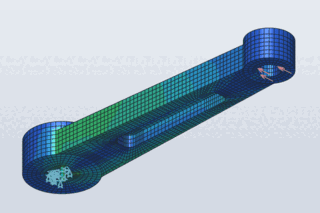
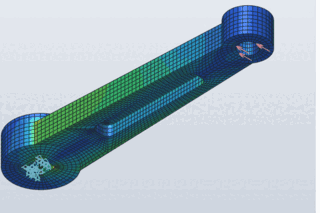
Docs: the crank's one-datum workflow, its gallery images and the Decompose status
examples.md and mcp.md tell the one-datum workflow and its numbers; the
crank gallery captures and Start card thumbnails are taken again on this
build; ROADMAP marks the automatic blocks of extruded cross-sections done,
and features.md's Decompose entry says what is left (3D parts).

Claude-Session: https://claude.ai/code/session_01UhhZMBTviDQxZvwnyP89fo

diff --git a/crates/engine/src/catalogue.rs b/crates/engine/src/catalogue.rs
@@ -325,7 +325,14 @@ pub static CATALOGUE: &[Capability] = &[
         "One mesh of a partitioned part, a method per cell (hex, tet, or all hex as conforming blocks); cells joined across partitions",
         &["mesh.hex.blocks"],
     ),
-    soon("mesh.hex.decompose", "Decompose", Mesh, "Structured Hex", "M5", "Find sweepable and mappable regions and propose the splits"),
+    soon(
+        "mesh.hex.decompose",
+        "Decompose",
+        Mesh,
+        "Structured Hex",
+        "M5",
+        "Find sweepable and mappable regions of 3D parts (extruded cross-sections are already cut into blocks by Hex Mesh)",
+    ),
     soon("mesh.transition", "Transition", Mesh, "Structured Hex", "M5", "Conforming tet–hex interfaces with pyramids"),
     ready(
         "mesh.hex.octree",

diff --git a/ROADMAP.md b/ROADMAP.md
@@ -31,7 +31,7 @@ pressure) is a degree of freedom of the existing DOF framework, not a separate s
 | M2 Tet meshing and size field | Size field (global, curvature and proximity; edge seeds done: `mesh.seed.edge` on persistent design edge names (`<face>|<face>`) with a count or size, geometric bias and an exact, min or free constraint, shown as ticks and under Mesh › Seeds, honoured by the hex sweep, extrude, revolve, mapped, blocks and cells meshers through interval assignment (conflicting exact seeds named) and by the tet mesher, which divides the edge at the seed's nodes and grades its size field from them; per-face seeds to do; the `fieldcraft_mesh::size::SizeField` trait and edge-division helpers are in); Bowyer–Watson Delaunay (exact, symbolic perturbation, verified; `fieldcraft-mesh::delaunay`, done); robust CDT boundary recovery (Diazzi et al. 2023: implicit LNC Steiner points on segments, gift-wrapping facet recovery, inside/outside labelling, B-rep face tags on boundary tet faces, flip repair of rounding (§5.1) checked by the validity gate; `fieldcraft-mesh::cdt` and `mesh.tet.generate`, done: all 20 valid corpus parts); quality stage (done: `fieldcraft-mesh::tet` — curvature-graded size field, edge-collapse coarsening, constrained Delaunay refinement with boundary points on the B-rep faces and curves, ODT smoothing, Klingner–Shewchuk improvement, tet4 and tet10 with mid-side nodes on the B-rep, quality report; one validity criterion shared by the gate and both solvers; the filleted-bracket fillet stress converges, tests/oracle); mesh verify per set | in progress |
 | M3 First deck | Sets and surfaces bound to SolidCraft face, edge, vertex and body names, resolved after meshing; materials (isotropic and orthotropic elastic, density) with a unit-system label and consistency check; sections (solid, shell, beam profiles) assigned by set; element formulation per region mapped to each solver; BCs (fixed, displacement, symmetry); loads (force and moment on reference points, pressure, gravity); reference points with kinematic and distributing coupling; steps (linear static, frequency) with explicit per-step load and BC tables and output presets; `model.check` naming every missing or bad item; `model.*` and `mesh.tag` commands (model definition: done); writers for Abaqus input (done: `deck.write`), Nastran SOL 101/103 (done: `deck.write`) and LS-DYNA implicit (done); the `.fieldcraft` file (text definition, binary mesh, geometry references reopened on load, journal; atomic saves, autosave and recovery; undo/redo on the journal: done) | in progress |
 | M4 Own solver and first results | Element library per docs/elements.md (1D and 2D first); Linear static and modal solver (tet4/10, wedge6, hex8, hex20; sparse direct, Lanczos), verified against analytic solutions (solver: done — `fieldcraft-fem` kernels, `fieldcraft-solver` with nested dissection, sparse Cholesky and block Lanczos, `solve.static`/`solve.frequency`/`solve.probe`, patch, cantilever, Lamé, Kirsch and beam-frequency tests; reference points with kinematic and distributing couplings and moments by master–slave constraint elimination, verified by rigid motion, clamping, Saint-Venant tension, bending and tube torsion; 1D elements I: rod2/rod3 trusses, point masses, rotary inertia, springs and dashpots in both solvers and all three decks, verified by the method of joints, the three-bar truss, spring–mass, two-mass chain and torsional pendulum frequencies, and damped decay; 2D elements: plane stress, plane strain and axisymmetric tri3, tri6, quad4 (incompatible modes QM6), quad8 with two degrees of freedom per node, centrifugal loads, `mesh.planar` 2D meshes of polygons and planar faces, verified by patch tests, Kirsch, Lamé (plane strain and axisymmetric), rotating discs and cylinders, and a plane stress cantilever; deck mapping to Abaqus CPS/CPE/CAX, Nastran membranes, LS-DYNA ELFORM 12/13); shells and beams (done: quad4 MITC4 and tri3 MITC3 flat shells with a Hughes–Brezzi drilling rotation, two-node Timoshenko beams with profile properties and orientations, six degrees of freedom at shell and beam nodes shared with solids and trusses, section forces and surface stresses, verified by shell patch tests, Navier's plate, cantilever and portal-frame beams, and the Scordelis–Lo and pinched-cylinder benchmarks); results display (done: `results.*` commands, deformed shape to scale, banded contours of displacement, von Mises, principal and component stresses with a legend, mode shapes with their frequencies and animation, probing a node by clicking it, reaction force and moment sums per set, stale results marked after an edit; explicit steps: field frames by slider or animation with contours per frame, energy histories plotted) | started |
-| M5 Structured hex | 2D quad meshing of faces (`fieldcraft-mesh::quad`: transfinite mapped meshes, free all-quad meshes of polygons with holes on prescribed boundary nodes, exact planar quad validity, shared `SizeField` and even edge divisions; done for planar faces); mapped hex of six-sided regions (trivariate TFI, curved faces) and sweep meshing (multi-level extrusions with imprinted cross-sections, revolutions, one-to-one sweeps through linking faces; interval assignment, hex8/hex20 on the geometry, B-rep face tags, `mesh.hex.generate`/`sweep`/`mapped`: done, 16 of 21 corpus parts all-hex); conforming interfaces between cells (done: `mesh.hex.blocks` meshes a part split with SolidCraft's Split Body into mapped blocks as one conforming mesh — composite faces for seams and tangent faces, interval assignment over all cells, shared faces meshed once, grading off holes and fillets, free-internal-face check; the filleted bracket in 30 cells, hex20 within 0.1 % of a fine tet10 tip deflection); partitions inside FieldCraft (done: datum planes and axes, `geometry.partition` cuts the open design by a datum plane, kept in the model and replayed when the design opens, the two faces of each cut paired by name); cells meshed each with its own method into one mesh (done: `mesh.cells` — hex where a method fits, else tet; matching interfaces merged node for node, others, such as hex next to tet, tied by dual mortar, verified by a tied hex–tet bar in tension to 1e-6); meshing half a symmetric part and mirroring it (done: `mesh.mirror` reflects hex8/hex20/tet4/tet10/wedge6 across a datum plane, right-handed, nodes on the plane merged, tags carried to the image half; a mirrored half bar equals the whole bar's mesh and bending deflection to 1e-12; samples `crank-arm` and `crank-mirror`: the half cut into seven cells, each swept structured, seeded to merge, and mirrored, scaled Jacobian ≥ 0.37; or solving the half: `model.boundary_condition.symmetry` on a datum plane, a half bar with half the load bends as the whole to 1e-11); three-sided sweep regions mapped as triangle primitives (done: midpoint subdivision, dominance constraints in interval assignment); pyramid transitions; automatic decomposition into sweepable and mappable regions, proposed as SolidCraft splits | started |
+| M5 Structured hex | 2D quad meshing of faces (`fieldcraft-mesh::quad`: transfinite mapped meshes, free all-quad meshes of polygons with holes on prescribed boundary nodes, exact planar quad validity, shared `SizeField` and even edge divisions; done for planar faces); mapped hex of six-sided regions (trivariate TFI, curved faces) and sweep meshing (multi-level extrusions with imprinted cross-sections, revolutions, one-to-one sweeps through linking faces; interval assignment, hex8/hex20 on the geometry, B-rep face tags, `mesh.hex.generate`/`sweep`/`mapped`: done, 16 of 21 corpus parts all-hex); conforming interfaces between cells (done: `mesh.hex.blocks` meshes a part split with SolidCraft's Split Body into mapped blocks as one conforming mesh — composite faces for seams and tangent faces, interval assignment over all cells, shared faces meshed once, grading off holes and fillets, free-internal-face check; the filleted bracket in 30 cells, hex20 within 0.1 % of a fine tet10 tip deflection); partitions inside FieldCraft (done: datum planes and axes, `geometry.partition` cuts the open design by a datum plane, kept in the model and replayed when the design opens, the two faces of each cut paired by name); cells meshed each with its own method into one mesh (done: `mesh.cells` — hex where a method fits, else tet; matching interfaces merged node for node, others, such as hex next to tet, tied by dual mortar, verified by a tied hex–tet bar in tension to 1e-6); meshing half a symmetric part and mirroring it (done: `mesh.mirror` reflects hex8/hex20/tet4/tet10/wedge6 across a datum plane, right-handed, nodes on the plane merged, tags carried to the image half; a mirrored half bar equals the whole bar's mesh and bending deflection to 1e-12; samples `crank-arm` and `crank-mirror`: one datum, the half extruded in automatic blocks and mirrored, scaled Jacobian ≥ 0.37; or solving the half: `model.boundary_condition.symmetry` on a datum plane, a half bar with half the load bends as the whole to 1e-11); three-sided sweep regions mapped as triangle primitives (done: midpoint subdivision, dominance constraints in interval assignment); automatic blocks of extruded cross-sections (done: `hex::decompose` — holes separated, O-grids, cuts from concave corners and fillets chosen by block quality, kept only when no worse than the free mesh; nothing added to the model); pyramid transitions; automatic decomposition of 3D parts into sweepable and mappable regions | started |
 | M6 Automatic hex | Octree/grid all-hex for any part (first version: done — `fieldcraft-mesh::octree`, `mesh.hex.octree`: 3-refinement grid with conforming templates refined by curvature, thickness and narrow faces, a core cleared to a manifold boundary, feature map onto it, padding and a pillow per patch capturing every sharp curve, foldover-free fitting, certified validity, B-rep face tags; the corpus hex column and the filleted-bracket oracle case; next: transitions for concave refined regions so thin and curved parts stop over-refining); hex-dominant by tet recombination; polycube for blocky parts; layers through thin walls; mesh editing and orphan-mesh import | started |
 | M7 Assemblies, contact and friction | Needs M15. Part instances from SolidCraft occurrences; tie between non-matching meshes (mortar: done — `interaction.tie`, dual mortar constraints in the implicit analyses, Abaqus `*TIE` and LS-DYNA tied contact, the tie patch test); implicit contact: surface-to-surface mortar and node-to-surface, penalty and augmented Lagrange, self-contact, automatic pair detection (mortar contact pairs with Coulomb friction in nonlinear static steps: done — segment-to-segment mortar with the consistent tangent by automatic differentiation of the segmentation, augmented Lagrangian with Uzawa updates to a gap tolerance, semismooth active set with a chattering cutback, small sliding without nonlinear geometry and finite sliding with it, overclosure adjusted or refused, Coulomb friction (stick/slip return map, static and kinetic coefficients, symmetrised tangent), pressure, gap, status, shear and slip output; verified by the contact patch test, Hertz cylinder and sphere, Newton's quadratic rate and sliding blocks; the linear analyses refuse contact by name); friction: Coulomb with stick–slip, static/kinetic, anisotropic, pressure-, rate- and temperature-dependent coefficients; contact output (pressure, slip, status); thermal contact conductance and frictional heating; wear (Archard); bolt pretension, connectors with behaviour (elastic, damped, stops, locks); amplitudes, multiple steps, restart; nonlinear steps in all three decks. Verified by Hertz (sphere and cylinder), the Cattaneo–Mindlin partial-slip problem, the sliding block, NAFEMS contact benchmarks | started |
 | M8 Materials, explicit, shells, composites | Plasticity, hyperelasticity, damage data per solver; explicit dynamics decks (Abaqus/Explicit, LS-DYNA); midsurface shells; composite layups and material orientations, continuum shells on swept hex; hybrid (mixed u–p) hex8/hex20/tet10 for nearly incompressible materials (done); heat transfer (solids done: steady and θ-method transient conduction with flux, convection and sources, thermal strain in static steps (solids and 2D) and explicit dynamics (with plasticity), coupled temperature–displacement, `solve.heat`; deck output, 2D/shell/beam conduction planned) | started |

diff --git a/docs/examples.md b/docs/examples.md
@@ -121,7 +121,7 @@ links made with it still open): seen from below, where the pocket is. How the ha
 meshed and mirrored is told under `crank-arm`.
 
 **Look at:** the pocket from below: straight mapped rows along its sides and floor, and at each
-end its corner fillets cut off by the diagonal partitions into three-sided triangle primitives;
+end its corner fillets as three-sided triangle primitives, cut off by the mesher's own blocks;
 the two halves, mirror images across the arm's middle.
 
 **Check:** as `crank-arm`.
@@ -140,27 +140,25 @@ arm's top face, where any hex is degenerate). 6061-T6 (E = 68 900 MPa, ν = 0.33
 bore's faces fixed, 1500 N on the pedal hole in the crank's plane, across the arm (−y). Linear
 static: about 5 s to open and 7 s to solve.
 
-The mesh is built as an analyst builds a structured one. A datum plane on the symmetry plane
-(`Sym`, y = 0) partitions the crank (`Half`); the half `CrankArm/a` is cut into seven cells:
-across the arm at x = 30 (the root, beyond the spindle boss), 60 and 110 (the pocket's straight
-middle) and 148 (before the pedal boss), and on two diagonals (`D1`, `D2`) through the centres
-of the pocket's corner fillets, radial to them so they meet the pocket wall square. Every
-cell's cross-section then splits into regions that map: the half ring round each bore (an
-O-grid), four-sided blocks (transfinite), and the pocket's four corners, three-sided, as
-triangle primitives. Exact edge seeds (`mesh.seed.edge`) give every cut the same divisions on
-its two sides, so `mesh.cells` sweeps each cell (`extrude`, hex20 of 3 mm) and merges all six
-cuts node for node, and `mesh.mirror` reflects the half onto `CrankArm/b`: 7 710 hex20
-elements, 37 938 nodes, all valid, scaled Jacobian min 0.37, mean 0.92, edge ratio at most 7.0
-(the swept crank before: min 0.17, its free-paved middle at the pocket the worst).
+The mesh needs one datum. A datum plane on the symmetry plane (`Sym`, y = 0) partitions the
+crank (`Half`); `mesh.hex.generate` extrudes the half `CrankArm/a` (hex20 of 3 mm) and cuts its
+cross-section into mappable blocks itself, inside the mesher (nothing is added to the model):
+the half ring round each bore as four-sided blocks, the pocket's R5 corners as three-sided
+triangle primitives, and four-sided blocks along the arm, split where the pocket's fillets meet
+it. Interval assignment gives every block's sides matching counts, with no seeds.
+`mesh.mirror` reflects the half onto `CrankArm/b`: 8 664 hex20 elements, all valid, scaled
+Jacobian min 0.37 (at the corners where the root arcs meet the bosses 20° off tangent), mean
+0.91. Before the mesher cut blocks itself the same crank took seven partitions and eleven exact
+seeds for 0.37 (and the swept half without them: min 0.009, its middle free-paved).
 
 **Look at:** the mesh (Prepare ▸ Mesh): rows running straight along the arm, the O-grids round
 the bores, eight layers through the arm, and the von Mises contours: the bending stress grows
-along the arm toward the root; the peak, 145 MPa, sits at a square-bore corner where the rigid
+along the arm toward the root; the peak, 117 MPa, sits at a square-bore corner where the rigid
 clamp meets the free face, a support singularity.
 
-**Check:** σxx on the arm's sides at x = 29 mm is −62.43 and +62.43 MPa, equal and opposite as
+**Check:** σxx on the arm's sides at x = 29 mm is −62.44 and +62.44 MPa, equal and opposite as
 the mirror-image halves are, against the beam formula
-M/Z = 1500 · 141 / (16 · 35.6² / 6) = 62.6 MPa (0.3 %); a 41 815-element tet10 solution of the
+M/Z = 1500 · 141 / (16 · 35.6² / 6) = 62.6 MPa (0.25 %); a 41 815-element tet10 solution of the
 full part gives 62.3 MPa. The pedal bore moves 0.75 mm down (tet10: 0.70–0.75 mm; Euler–Bernoulli
 with a rigid clamp: 0.58 mm, without shear or the boss's compliance), and the spindle carries the
 whole 1500 N and 255 N·m.

diff --git a/docs/mcp.md b/docs/mcp.md
@@ -128,7 +128,9 @@ and `mesh` (each one's parameters: `list_commands`):
    `partition:<name>:a` and `partition:<name>:b`; every other face keeps the name of the face it
    is a piece of. The partition is part of the model: saving and opening it, or opening the
    design again after an edit, cuts the design again. `inspect_model` lists the cells.
-3. `mesh` with method `hex`, `hex_sweep`, `hex_mapped` or `tet` on one cell (`{"body":
+3. `mesh` with method `hex` on an extruded cell needs no further cuts: its cross-section is cut
+   into mappable blocks inside the mesher (O-grids round holes, triangle primitives at fillets,
+   four-sided blocks), so a symmetric part takes one datum. Or `mesh` with method `hex`, `hex_sweep`, `hex_mapped` or `tet` on one cell (`{"body":
    "Part/b"}`), or method `cells` for all cells with a method each (`{"methods": {"Part/a":
    "tet"}, "default": "auto"}`): cells whose faces match on a partition are merged, others are
    tied (the reply lists each interface).
@@ -138,7 +140,8 @@ and `mesh` (each one's parameters: `list_commands`):
 5. Or keep the half: `model.boundary_condition.symmetry {name, datum}` holds it on the plane
    (zero normal displacement), with half the load.
 
-`file.sample {"name": "crank-mirror"}` opens the crank arm built this way (docs/examples.md).
+`file.sample {"name": "crank-mirror"}` opens the crank arm built this way: one datum (`Sym`), its
+partition, `hex` on the half and `mirror` (docs/examples.md).
 
 ## Edge seeds
 

diff --git a/docs/features.md b/docs/features.md
@@ -37,7 +37,7 @@ the control channel and AI agents over MCP (docs/mcp.md) run the same commands.
 | Structured Hex | Quad Faces — All-quad meshes of faces on shared edge nodes | coming soon (M5) |  |
 | Structured Hex | Hex Mesh — Structured hex mesh of a body: automatic, or extruded, swept, revolved or mapped (the Method drop-down) | ready | `mesh.hex.generate`, (`mesh.hex.sweep`), (`mesh.hex.mapped`) |
 | Structured Hex | Partitioned Mesh — One mesh of a partitioned part, a method per cell (hex, tet, or all hex as conforming blocks); cells joined across partitions | ready | `mesh.cells`, (`mesh.hex.blocks`) |
-| Structured Hex | Decompose — Find sweepable and mappable regions and propose the splits | coming soon (M5) |  |
+| Structured Hex | Decompose — Find sweepable and mappable regions of 3D parts (extruded cross-sections are already cut into blocks by Hex Mesh) | coming soon (M5) |  |
 | Structured Hex | Transition — Conforming tet–hex interfaces with pyramids | coming soon (M5) |  |
 | Automatic Hex | Octree Hex — Unstructured all-hex mesh of any part: adaptive grid, boundary layers on every sharp edge, untangled and proven valid | ready | `mesh.hex.octree` |
 | Automatic Hex | Hex-Dominant — Hex-dominant mesh by recombining tets | coming soon (M6) |  |
